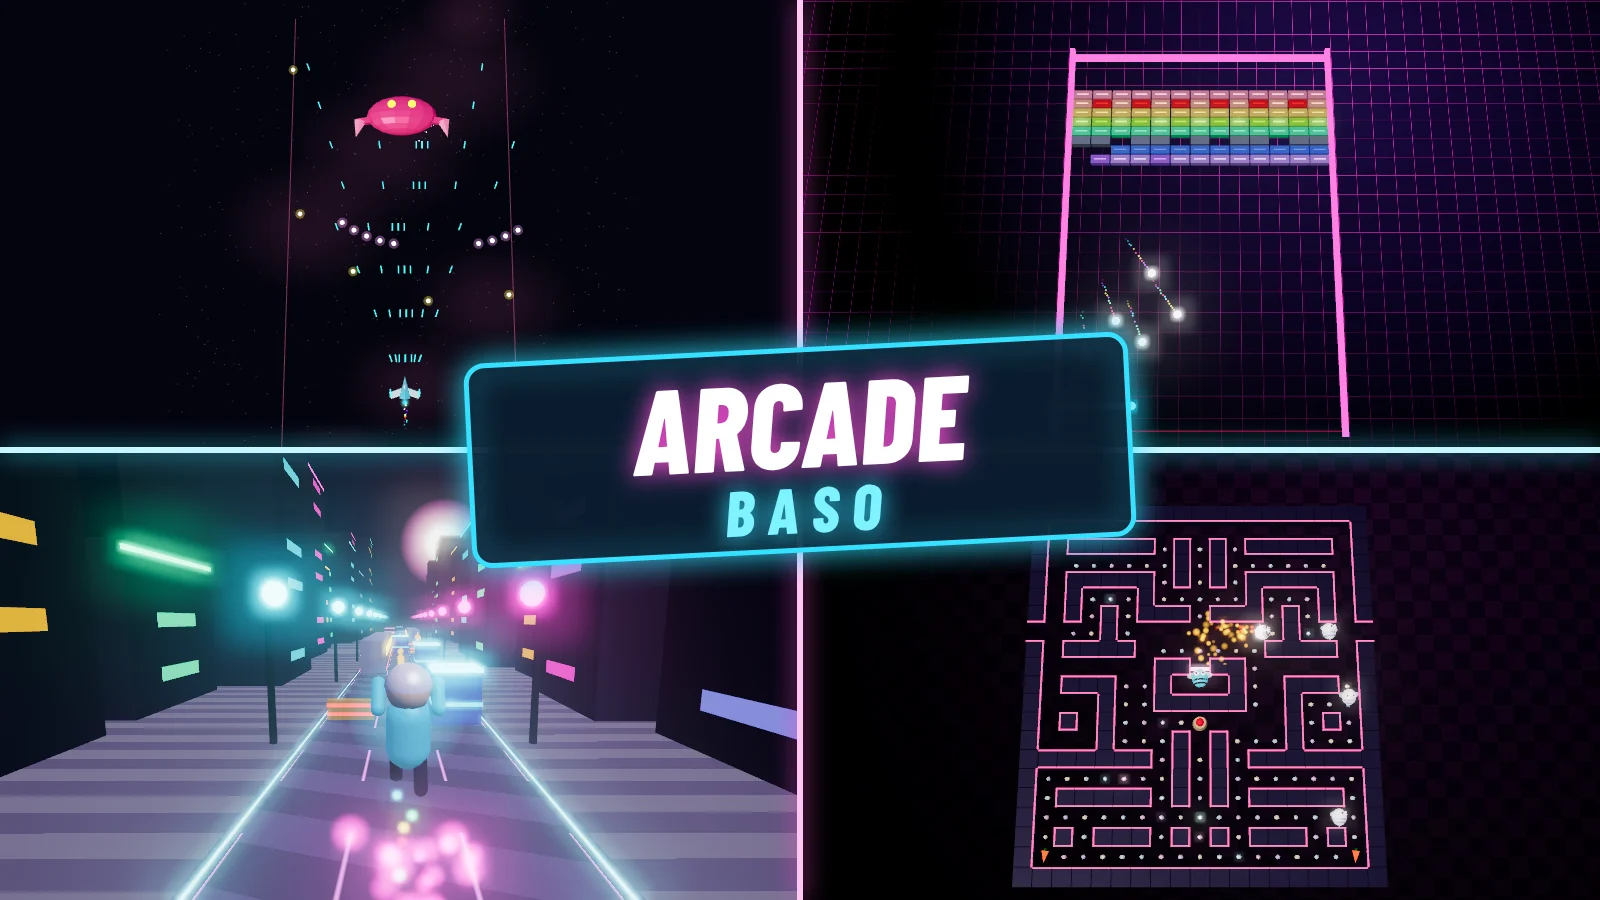
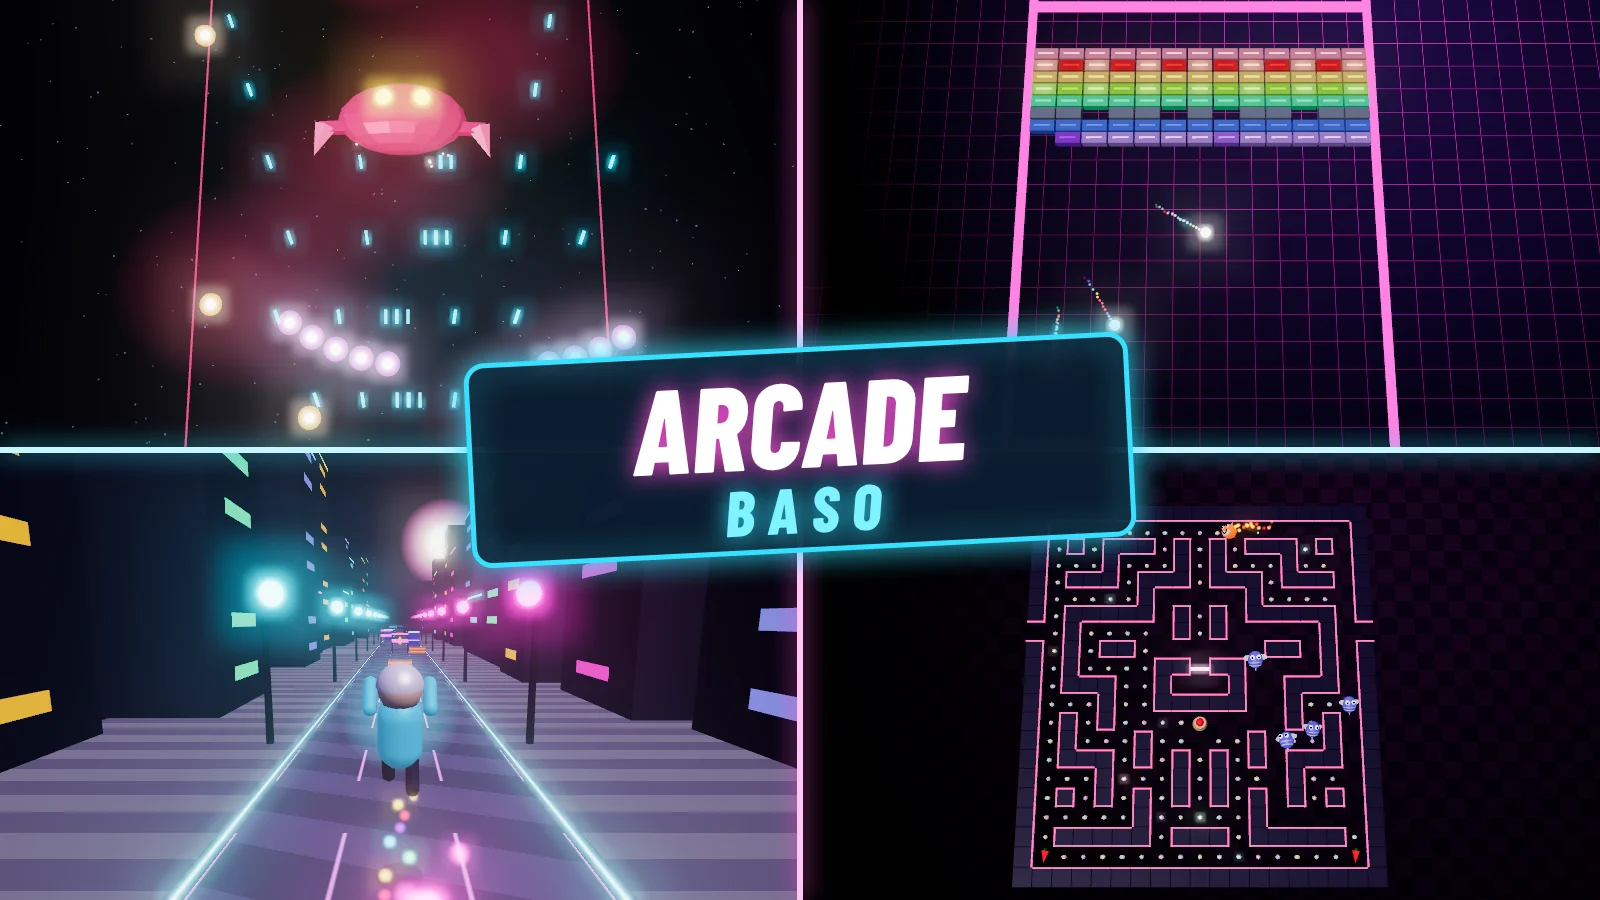
Arcade Baso: controller ai menu in pausa, monete della corsa, ritocchi grafici e test più robusti
Claude-Session: https://claude.ai/code/session_016m2WYRmSGpEHYcJ2gk4eQy

diff --git a/src/arcade/meta.js b/src/arcade/meta.js
@@ -5,7 +5,7 @@ import { hashStr, rng, todayKey } from './rng.js';
 export const GAMES = {
   astro: { id: 'astro', name: 'Astro Baso', genre: 'Sparatutto verticale', icon: 'target', accent: '#36e0ff', sub: 'Tre settori di nebulose, ondate di droni e tre boss giganti. Bombe, potenziamenti e moltiplicatore combo.', two: 'coop', coins: (s) => Math.floor(s / 400) },
   rimbalzo: { id: 'rimbalzo', name: 'Rimbalzo', genre: 'Spaccamattoni', icon: 'burst', accent: '#ff4fd8', sub: 'Racchetta, pallina e 48 quadri di mattoni al neon: multipalla, laser, palla di fuoco e un generatore infinito.', two: 'alt', coins: (s) => Math.floor(s / 250) },
-  corri: { id: 'corri', name: 'Corri Baso', genre: 'Corsa infinita', icon: 'speed', accent: '#ffb21f', sub: 'Tre corsie nella città notturna: salta le barriere, scivola sotto le travi, raccogli monete e completa le missioni.', two: 'alt', coins: (s) => Math.floor(s / 300) },
+  corri: { id: 'corri', name: 'Corri Baso', genre: 'Corsa infinita', icon: 'speed', accent: '#ffb21f', sub: 'Tre corsie nella città notturna: salta le barriere, scivola sotto le travi, raccogli monete (una ogni quattro va nel salvadanaio) e completa le missioni.', two: 'alt', coins: (s) => Math.floor(s / 300) },
   labirinto: { id: 'labirinto', name: 'Labirinto Goloso', genre: 'Labirinto e inseguimento', icon: 'compass', accent: '#7dff5a', sub: 'Gnam divora i confetti nel labirinto della pasticceria, schiva le quattro vespe e col peperoncino le mette in fuga.', two: 'alt', coins: (s) => Math.floor(s / 250) },
 };
 export const GAME_IDS = Object.keys(GAMES);

diff --git a/src/arcade/arcade.css b/src/arcade/arcade.css
@@ -78,7 +78,7 @@
 .ar-rec { color: var(--text2); display: flex; align-items: center; gap: 6px; } .ar-rec .ico { width: 16px; height: 16px; color: var(--gold); } .ar-rec b { color: var(--gold); }
 @media (max-width: 1100px) { .ar-games { grid-template-columns: repeat(2, minmax(0, 1fr)); } }
 @media (max-width: 860px) { .ar-row2 { grid-template-columns: 1fr; } }
-@media (max-width: 520px) { .ar-card-t b { font-size: 18px; } .ar-card-t span { display: none; } .ar-games { gap: 8px; } .ar-wallet b { font-size: 24px; } .ar-go .btn.big { width: 100%; } .ar-daily-art { width: 100%; } .ar-items { grid-template-columns: repeat(3, minmax(0, 1fr)); } }
+@media (max-width: 520px) { .ar-card-t b { font-size: 18px; } .ar-card-t span { display: none; } .ar-games { gap: 8px; } .ar-wallet b { font-size: 24px; } .ar-go .btn.big { width: 100%; } .ar-daily-art { width: 100%; max-width: 240px; } .ar-items { grid-template-columns: repeat(3, minmax(0, 1fr)); } }
 
 /* ---- live game */
 .ar-stage-full { position: fixed; inset: 0; background: #000; }

diff --git a/src/arcade/labirinto-view.js b/src/arcade/labirinto-view.js
@@ -122,7 +122,7 @@ export class View {
     for (let y = 0; y < MH; y++) for (let x = 0; x < MW; x++) {
       const d = sim.dots[y * MW + x]; if (!d) continue;
       if (d === 1) this.dots.add(X(x), Y(y), 1.2, 1, 1, 1.25, t * 0.5 + x, DOTC[(x * 3 + y) % DOTC.length], 1.2, 0, x + y);
-      else { const s = 1 + Math.sin(t * 6) * 0.12; this.chili.add(X(x), Y(y), 1.6, s, s, s, Math.PI + Math.sin(t * 2) * 0.3, '#ff3b1f', 1.8); this.chiliTop.add(X(x) - Math.sin(Math.sin(t * 2) * 0.3) * 1.8, Y(y) + 1.8, 1.6, 1, 1, 1, 0, '#2fb04a'); }
+      else { const s = 1 + Math.sin(t * 6) * 0.12; this.chili.add(X(x), Y(y), 1.6, s, s, s, Math.PI + Math.sin(t * 2) * 0.3, '#e8101e', 1.25); this.chiliTop.add(X(x) - Math.sin(Math.sin(t * 2) * 0.3) * 1.8, Y(y) + 1.8, 1.6, 1, 1, 1, 0, '#2fb04a'); }
     }
     this.dots.end(); this.chili.end(); this.chiliTop.end();
     this.bonus.begin(); this.bonusTop.begin();

diff --git a/src/arcade/host.js b/src/arcade/host.js
@@ -170,6 +170,7 @@ export class ArcadeHost {
     if (this.over) return;
     this.paused = force ?? !this.paused;
     this.I.keys.clear(); this.I.vb.clear();
+    this.root.classList.toggle('dz-root', !this.paused); // paused: the controller drives the menu focus again
     this.o.onPause?.(this.paused);
   }
   loop(now) {
@@ -215,6 +216,7 @@ export class ArcadeHost {
       return;
     }
     this.over = true;
+    this.root.classList.remove('dz-root');
     this.snd.play(r.win ? 'win' : 'lose');
     const res = { game: this.o.game, daily: this.o.daily?.key || null, players: this.o.players, mode2: this.mode2, results: this.results, score: Math.max(...this.results.map((q) => q.score)), win: this.results.some((q) => q.win), main: this.results[0] };
     this.o.onEnd?.(res);

diff --git a/src/screens/arcade.js b/src/screens/arcade.js
@@ -134,7 +134,7 @@ function resultsHTML(r, p, extra) {
 function record(r) {
   const p = arLoad(), g = r.game, extra = { coins: 0 };
   p.games++; p.plays[g] = (p.plays[g] || 0) + 1;
-  const ranks = r.results.map((q, i) => { extra.coins += GAMES[g].coins(q.score); return addScore(p, g, q.score, r.results.length > 1 ? `G${i + 1}` : 'G1'); }).filter(Boolean);
+  const ranks = r.results.map((q, i) => { extra.coins += GAMES[g].coins(q.score) + (g === 'corri' ? Math.floor((q.coins || 0) / 4) : 0); return addScore(p, g, q.score, r.results.length > 1 ? `G${i + 1}` : 'G1'); }).filter(Boolean);
   extra.rank = ranks.length ? Math.min(...ranks) : 0;
   const m = r.main;
   if (!r.daily) {
